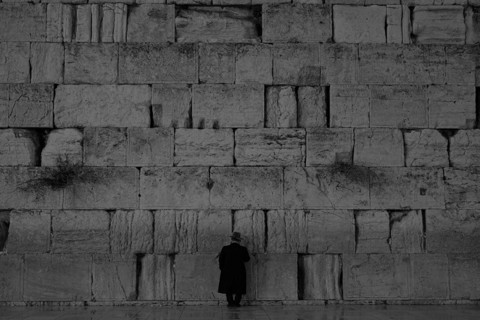
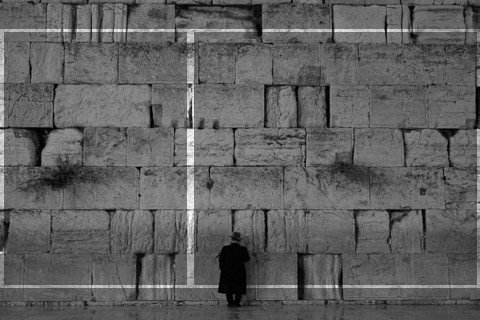
Fix: distinct semi-transparent boxes; white text; dedup Sigd

diff --git a/include/shabbos_clock_helpers.h b/include/shabbos_clock_helpers.h
@@ -483,6 +483,19 @@ static void extract_display_data(
     i++;
   }
 
+  // Deduplicate by base title (keeps first occurrence).
+  std::vector<UpcomingEvt> deduped;
+  std::vector<std::string> seen;
+  for (const UpcomingEvt &e : merged) {
+    std::string base = event_base_title(e.title);
+    bool found = false;
+    for (const std::string &s : seen) if (s == base) { found = true; break; }
+    if (found) continue;
+    seen.push_back(base);
+    deduped.push_back(e);
+  }
+  merged = deduped;
+
   // Build upcoming string from merged events.
   for (const UpcomingEvt &e : merged) {
     if (!upcoming.empty()) upcoming += "\n";
@@ -659,9 +672,9 @@ static void render_shabbos(
     const std::string &today_notes,
     const std::string &shofar_status) {
 
-  auto c_gold  = Color(255, 200, 100);
+  auto c_wht  = Color(255, 200, 100);
   auto c_wht   = Color(255, 255, 255);
-  auto c_dim   = Color(160, 160, 160);
+  auto c_wht   = Color(160, 160, 160);
   auto c_div   = Color(50, 50, 40);
 
   // Background image (already darkened on disk for semi-transparent boxes).
@@ -687,26 +700,26 @@ static void render_shabbos(
     while (true) {
       auto nl = today_notes.find('\n', pos);
       if (nl == today_notes.npos) {
-        it.print(x, y, font_small, c_gold, today_notes.substr(pos).c_str()); y += 14; break;
+        it.print(x, y, font_small, c_wht, today_notes.substr(pos).c_str()); y += 14; break;
       }
-      it.print(x, y, font_small, c_gold, today_notes.substr(pos, nl - pos).c_str()); y += 14;
+      it.print(x, y, font_small, c_wht, today_notes.substr(pos, nl - pos).c_str()); y += 14;
       pos = nl + 1;
     }
     y += 4;
   }
   // Shofar status (Elul/Tishrei only)
   if (!shofar_status.empty()) {
-    it.print(x, y, font_small, c_gold, shofar_status.c_str()); y += 16;
+    it.print(x, y, font_small, c_wht, shofar_status.c_str()); y += 16;
   }
   // Candle lighting
   if (candles_time != "--:--") {
-    it.print(x, y, font_icons, c_gold, candles_icon.c_str());
-    it.print(x + 24, y, font_mid, c_gold, candles_time.c_str()); y += 22;
+    it.print(x, y, font_icons, c_wht, candles_icon.c_str());
+    it.print(x + 24, y, font_mid, c_wht, candles_time.c_str()); y += 22;
   }
   // Havdalah
   if (havdalah_time != "--:--") {
-    it.print(x, y, font_icons, c_gold, havdalah_icon.c_str());
-    it.print(x + 24, y, font_mid, c_gold, havdalah_time.c_str()); y += 22;
+    it.print(x, y, font_icons, c_wht, havdalah_icon.c_str());
+    it.print(x + 24, y, font_mid, c_wht, havdalah_time.c_str()); y += 22;
   }
   // Zmanim (Mincha, Plag, Maariv)
   if (!zmanim.empty()) {
@@ -714,9 +727,9 @@ static void render_shabbos(
     while (true) {
       auto nl = zmanim.find('\n', pos);
       if (nl == zmanim.npos) {
-        it.print(x, y, font_small, c_dim, zmanim.substr(pos).c_str()); y += 14; break;
+        it.print(x, y, font_small, c_wht, zmanim.substr(pos).c_str()); y += 14; break;
       }
-      it.print(x, y, font_small, c_dim, zmanim.substr(pos, nl - pos).c_str()); y += 14;
+      it.print(x, y, font_small, c_wht, zmanim.substr(pos, nl - pos).c_str()); y += 14;
       pos = nl + 1;
     }
   }
@@ -725,8 +738,8 @@ static void render_shabbos(
   x = 194; y = my;
   int col_w_r = 286;
   // Book icon + English parsha name
-  it.print(x, y, font_icons, c_dim, "\U000F1CCC");
-  if (!parasha_english.empty()) { it.print(x + 22, y, font_small, c_gold, parasha_english.c_str()); y += 14; }
+  it.print(x, y, font_icons, c_wht, "\U000F1CCC");
+  if (!parasha_english.empty()) { it.print(x + 22, y, font_small, c_wht, parasha_english.c_str()); y += 14; }
   else y += 14;
   // Hebrew parsha name (right-aligned)
   if (!parasha_hebrew.empty()) { it.print(x + col_w_r - 4, y, font_small, c_wht, TextAlign::RIGHT, parasha_hebrew.c_str()); y += 14; }
@@ -742,9 +755,9 @@ static void render_shabbos(
     while (true) {
       auto nl = daily_study.find('\n', pos);
       if (nl == daily_study.npos) {
-        it.print(x, y, font_small, c_dim, daily_study.substr(pos).c_str()); y += 14; break;
+        it.print(x, y, font_small, c_wht, daily_study.substr(pos).c_str()); y += 14; break;
       }
-      it.print(x, y, font_small, c_dim, daily_study.substr(pos, nl - pos).c_str()); y += 14;
+      it.print(x, y, font_small, c_wht, daily_study.substr(pos, nl - pos).c_str()); y += 14;
       pos = nl + 1;
     }
     y += 6;
@@ -767,7 +780,7 @@ static void render_shabbos(
       std::string greg_s  = (p3 != std::string::npos) ? evt.substr(p3 + 1) : "";
       std::string date_line = hd_s;
       if (!greg_s.empty()) date_line += "  " + greg_s;
-      if (!date_line.empty()) { it.print(x, y, font_small, c_dim, date_line.c_str()); y += 14; }
+      if (!date_line.empty()) { it.print(x, y, font_small, c_wht, date_line.c_str()); y += 14; }
       std::string name_line = title;
       if (!heb.empty()) name_line += "  " + rtl(heb);
       if (!name_line.empty()) { it.print(x, y, font_small, c_wht, name_line.c_str()); y += 14; }
@@ -779,7 +792,7 @@ static void render_shabbos(
   }
 
   // ---- Footer bar (full width, 32px) ----
-  it.print(240, 295, font_small, c_dim, TextAlign::CENTER, "Swipe Left to set location, Swipe Right to setup Wifi");
+  it.print(240, 295, font_small, c_wht, TextAlign::CENTER, "Swipe Left to set location, Swipe Right to setup Wifi");
 }
 
 // ============================================================================
